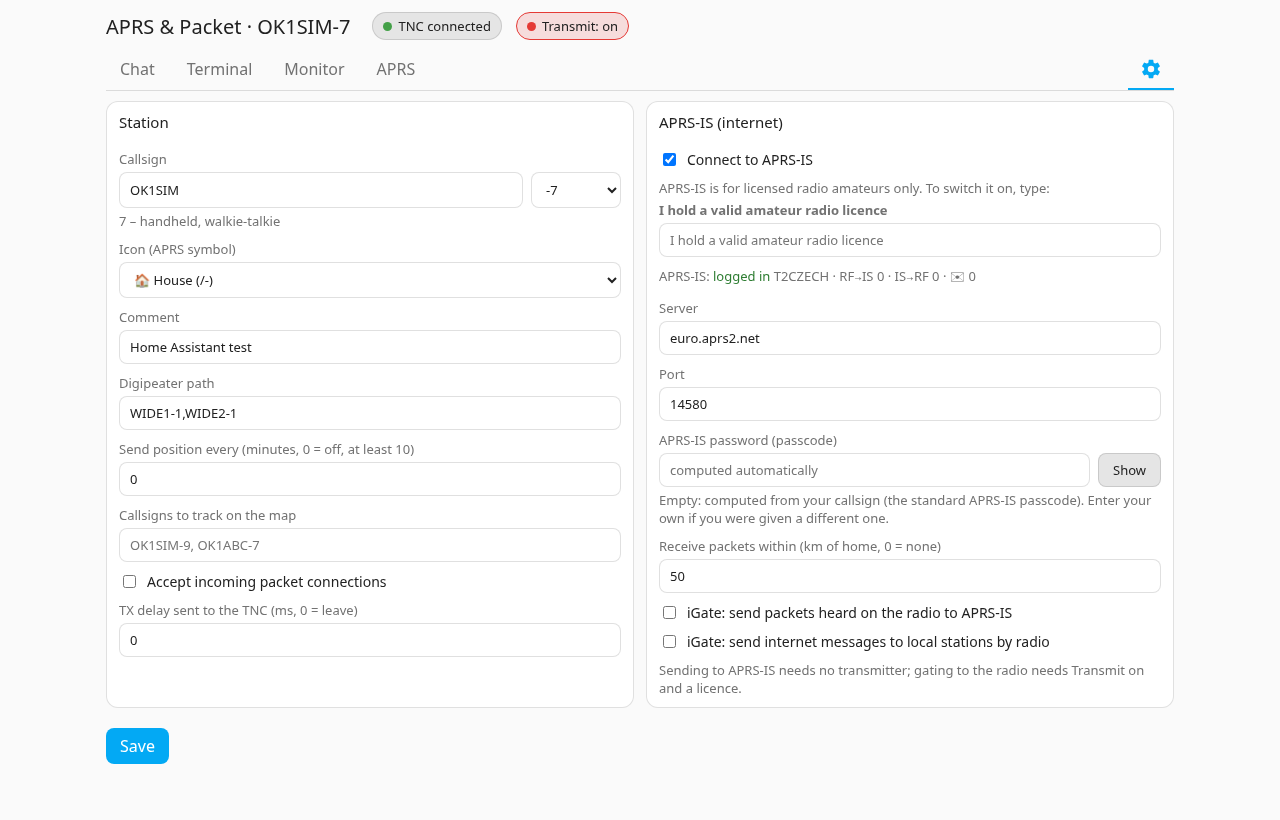
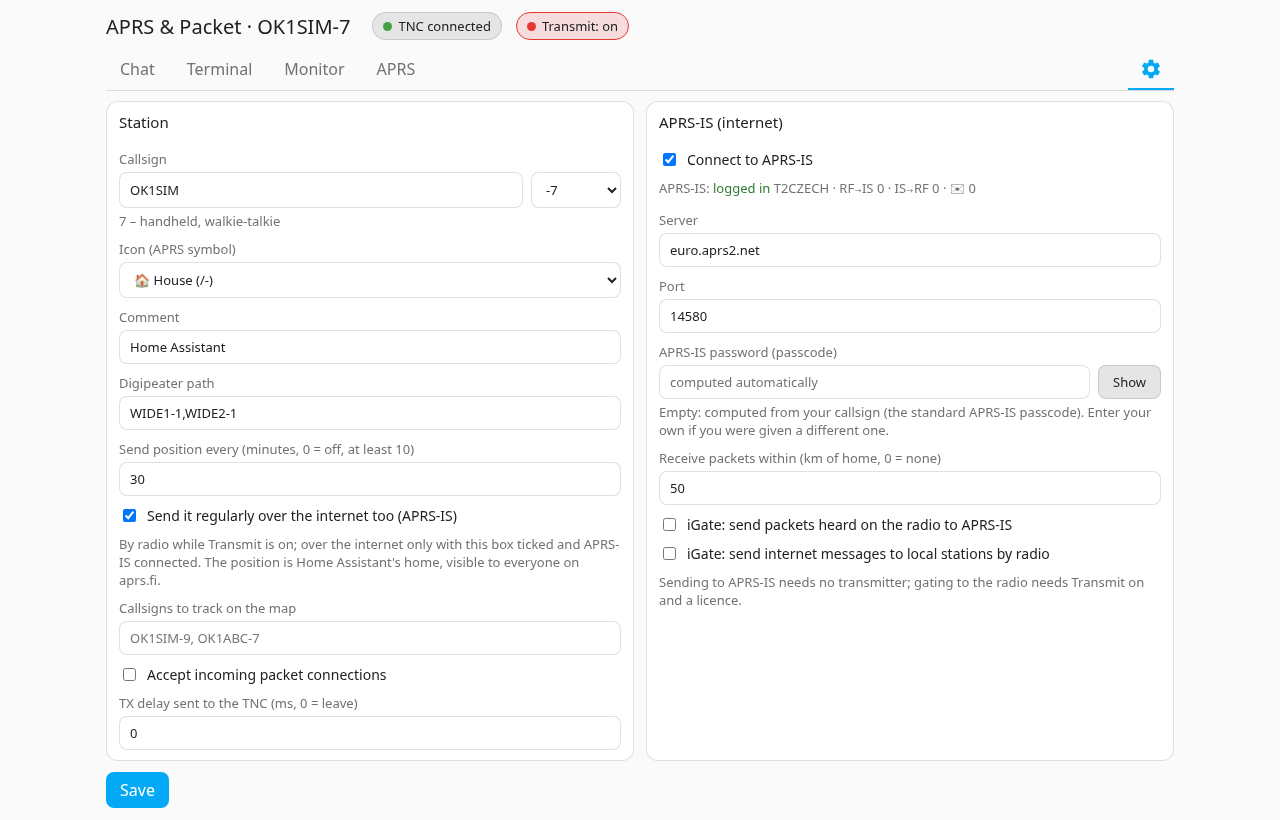
0.3.4: position over the internet as an option, licence field fix, Marketplace install with a button

Changed region(s): [[0.5, 0.2134, 0.9062, 0.8537], [0.0625, 0.6098, 0.5, 1.0]]

diff --git a/custom_components/aprs_kiss/frontend/aprs-kiss-panel.js b/custom_components/aprs_kiss/frontend/aprs-kiss-panel.js
@@ -37,7 +37,7 @@ const COG = 'M12,15.5A3.5,3.5 0 0,1 8.5,12A3.5,3.5 0 0,1 12,8.5A3.5,3.5 0 0,1 15
 
 const TEXTS = {
   en: {
-    settings: 'Settings', callsign: 'Callsign', ssid: 'SSID', symbol: 'Icon (APRS symbol)', comment: 'Position comment', path: 'Digipeater path', beacon: 'Send position every (minutes, 0 = off, at least 10)', tracked: 'Callsigns to track on the map', incoming: 'Accept incoming packet connections', txdelay: 'TX delay sent to the TNC (ms, 0 = leave)', station: 'Station', aprsis: 'APRS-IS (internet)', aprsisOn: 'Connect to APRS-IS', server: 'Server', port: 'Port', passcode: 'APRS-IS password (passcode)', licenceAsk: 'APRS-IS is for licensed radio amateurs only. To switch it on, type:', licenceText: 'I hold a valid amateur radio licence', licenceRequired: 'To switch APRS-IS on, type the sentence about your licence exactly as shown.', show: 'Show', hide: 'Hide', passHint: 'Empty: computed from your callsign (the standard APRS-IS passcode). Enter your own if you were given a different one.', passOwn: 'Your own passcode is saved. Clear the field to compute it from the callsign.', radius: 'Receive packets within (km of home, 0 = none)', igateRx: 'iGate: send packets heard on the radio to APRS-IS', igateTx: 'iGate: send internet messages to local stations by radio', unsaved: 'Changes are not saved yet: press Save.', save: 'Save', saved: 'Saved; the integration restarts with the new settings.', isState: 'APRS-IS', verified: 'logged in', unverified: 'connected, not verified (check the passcode)', disconnectedIs: 'not connected', passAuto: 'computed automatically', igateHint: 'Sending to APRS-IS needs no transmitter; gating to the radio needs Transmit on and a licence.', ssidHint: 'Usual meanings of the SSID:',
+    settings: 'Settings', callsign: 'Callsign', ssid: 'SSID', symbol: 'Icon (APRS symbol)', comment: 'Position comment', path: 'Digipeater path', beacon: 'Send position every (minutes, 0 = off, at least 10)', beaconIs: 'Send it regularly over the internet too (APRS-IS)', beaconHint: 'By radio while Transmit is on; over the internet only with this box ticked and APRS-IS connected. The position is Home Assistant\'s home, visible to everyone on aprs.fi.', tracked: 'Callsigns to track on the map', incoming: 'Accept incoming packet connections', txdelay: 'TX delay sent to the TNC (ms, 0 = leave)', station: 'Station', aprsis: 'APRS-IS (internet)', aprsisOn: 'Connect to APRS-IS', server: 'Server', port: 'Port', passcode: 'APRS-IS password (passcode)', licenceAsk: 'APRS-IS is for licensed radio amateurs only. To switch it on, type:', licenceText: 'I hold a valid amateur radio licence', licenceRequired: 'To switch APRS-IS on, type the sentence about your licence exactly as shown.', show: 'Show', hide: 'Hide', passHint: 'Empty: computed from your callsign (the standard APRS-IS passcode). Enter your own if you were given a different one.', passOwn: 'Your own passcode is saved. Clear the field to compute it from the callsign.', radius: 'Receive packets within (km of home, 0 = none)', igateRx: 'iGate: send packets heard on the radio to APRS-IS', igateTx: 'iGate: send internet messages to local stations by radio', unsaved: 'Changes are not saved yet: press Save.', save: 'Save', saved: 'Saved; the integration restarts with the new settings.', isState: 'APRS-IS', verified: 'logged in', unverified: 'connected, not verified (check the passcode)', disconnectedIs: 'not connected', passAuto: 'computed automatically', igateHint: 'Sending to APRS-IS needs no transmitter; gating to the radio needs Transmit on and a licence.', ssidHint: 'Usual meanings of the SSID:',
     newVersion: 'A new version of APRS & Packet is installed. Reload the page to use it.', reload: 'Reload page',
     chat: 'Chat', chatHint: 'Packet chat: Enter sends the text to everyone on the frequency as it is (a UI frame to CQ, direct).', chatPh: 'Write a message', chatEmpty: 'Nothing heard yet.',
     viaIs: 'only over the internet (APRS-IS)', isLegend: '🌐 = only over the internet (APRS-IS), not heard by the radio',
@@ -51,7 +51,7 @@ const TEXTS = {
     txOffHint: 'Transmitting is off. Switch it on to connect or send.', state: { pending: 'waiting for ack', acked: 'acknowledged', rejected: 'rejected', failed: 'no ack', sent: 'sent' },
   },
   cs: {
-    settings: 'Nastavení', callsign: 'Značka', ssid: 'SSID', symbol: 'Ikona (APRS symbol)', comment: 'Komentář k poloze', path: 'Cesta přes digipeatery', beacon: 'Posílat polohu každých (minut, 0 = ne, nejméně 10)', tracked: 'Značky sledované na mapě', incoming: 'Přijímat příchozí packet spojení', txdelay: 'TX delay pro TNC (ms, 0 = neměnit)', station: 'Stanice', aprsis: 'APRS-IS (internet)', aprsisOn: 'Připojit se k APRS-IS', server: 'Server', port: 'Port', passcode: 'Heslo pro APRS-IS (passcode)', licenceAsk: 'APRS-IS je jen pro radioamatéry s licencí. Pro zapnutí napiš:', licenceText: 'mám platnou radioamatérskou licenci', licenceRequired: 'Pro zapnutí APRS-IS napiš větu o licenci přesně tak, jak je uvedená.', show: 'Zobrazit', hide: 'Skrýt', passHint: 'Prázdné: spočítá se z tvé značky (standardní passcode APRS-IS). Zadej vlastní, pokud ti bylo přiděleno jiné.', passOwn: 'Je uložené tvoje vlastní heslo. Smazáním pole se bude počítat ze značky.', radius: 'Přijímat pakety do (km od domova, 0 = žádné)', igateRx: 'iGate: posílat pakety slyšené rádiem do APRS-IS', igateTx: 'iGate: zprávy z internetu pro místní stanice vysílat rádiem', unsaved: 'Změny ještě nejsou uložené: klikni na Uložit.', save: 'Uložit', saved: 'Uloženo; integrace se restartuje s novým nastavením.', isState: 'APRS-IS', verified: 'přihlášeno', unverified: 'připojeno, neověřeno (zkontroluj passcode)', disconnectedIs: 'nepřipojeno', passAuto: 'spočítá se automaticky', igateHint: 'Posílání do APRS-IS nepotřebuje vysílač; brána do rádia potřebuje zapnuté vysílání a licenci.', ssidHint: 'Obvyklé významy SSID:',
+    settings: 'Nastavení', callsign: 'Značka', ssid: 'SSID', symbol: 'Ikona (APRS symbol)', comment: 'Komentář k poloze', path: 'Cesta přes digipeatery', beacon: 'Posílat polohu každých (minut, 0 = ne, nejméně 10)', beaconIs: 'Posílat pravidelně i přes internet (APRS-IS)', beaconHint: 'Rádiem, když je zapnuté vysílání; přes internet jen se zaškrtnutím a připojeným APRS-IS. Poloha je domov z Home Assistantu, na aprs.fi ji uvidí každý.', tracked: 'Značky sledované na mapě', incoming: 'Přijímat příchozí packet spojení', txdelay: 'TX delay pro TNC (ms, 0 = neměnit)', station: 'Stanice', aprsis: 'APRS-IS (internet)', aprsisOn: 'Připojit se k APRS-IS', server: 'Server', port: 'Port', passcode: 'Heslo pro APRS-IS (passcode)', licenceAsk: 'APRS-IS je jen pro radioamatéry s licencí. Pro zapnutí napiš:', licenceText: 'mám platnou radioamatérskou licenci', licenceRequired: 'Pro zapnutí APRS-IS napiš větu o licenci přesně tak, jak je uvedená.', show: 'Zobrazit', hide: 'Skrýt', passHint: 'Prázdné: spočítá se z tvé značky (standardní passcode APRS-IS). Zadej vlastní, pokud ti bylo přiděleno jiné.', passOwn: 'Je uložené tvoje vlastní heslo. Smazáním pole se bude počítat ze značky.', radius: 'Přijímat pakety do (km od domova, 0 = žádné)', igateRx: 'iGate: posílat pakety slyšené rádiem do APRS-IS', igateTx: 'iGate: zprávy z internetu pro místní stanice vysílat rádiem', unsaved: 'Změny ještě nejsou uložené: klikni na Uložit.', save: 'Uložit', saved: 'Uloženo; integrace se restartuje s novým nastavením.', isState: 'APRS-IS', verified: 'přihlášeno', unverified: 'připojeno, neověřeno (zkontroluj passcode)', disconnectedIs: 'nepřipojeno', passAuto: 'spočítá se automaticky', igateHint: 'Posílání do APRS-IS nepotřebuje vysílač; brána do rádia potřebuje zapnuté vysílání a licenci.', ssidHint: 'Obvyklé významy SSID:',
     newVersion: 'Je nainstalovaná nová verze APRS & Packet. Načti stránku znovu, aby se použila.', reload: 'Načíst znovu',
     chat: 'Chat', chatHint: 'Packetový chat: Enter odešle text tak, jak je, všem na kmitočtu (UI rámec na CQ, přímo).', chatPh: 'Napiš zprávu', chatEmpty: 'Zatím nic nepřišlo.',
     viaIs: 'jen přes internet (APRS-IS)', isLegend: '🌐 = jen přes internet (APRS-IS), rádio ji neslyšelo',
@@ -284,7 +284,7 @@ class AprsKissPanel extends HTMLElement {
         .top { position: sticky; top: 0; z-index: 10; display: flex; flex-direction: column; gap: 10px; flex-shrink: 0;
                margin: -12px -16px 0; padding: calc(12px + env(safe-area-inset-top, 0px)) 16px 0; background: var(--primary-background-color); }
         .update { display: flex; align-items: center; gap: 12px; padding: 8px 12px; border-radius: 10px; background: var(--warning-color, #ff9800); color: #000; font-size: 14px; }
-        .update[hidden] { display: none; } .update span { flex: 1; }
+        [hidden] { display: none !important; }  /* also over display: flex of .field and others */ .update span { flex: 1; }
         .update button { padding: 6px 12px; border: none; border-radius: 6px; background: rgba(0, 0, 0, 0.8); color: #fff; font: inherit; cursor: pointer; white-space: nowrap; }
         header { display: flex; flex-wrap: wrap; align-items: center; gap: 8px 14px; }
         h1 { font-size: 20px; margin: 0 8px 0 0; font-weight: 500; }
@@ -566,6 +566,8 @@ class AprsKissPanel extends HTMLElement {
           <label class="field">${t.comment}<input class="f-comment" maxlength="43" value="${esc(st.comment || '')}"></label>
           <label class="field">${t.path}<input class="f-path" value="${esc(st.path || '')}" placeholder="WIDE1-1,WIDE2-1"></label>
           <label class="field">${t.beacon}<input class="f-beacon" type="number" min="0" max="1440" value="${st.beacon_minutes || 0}"></label>
+          <label class="field check"><input type="checkbox" class="f-beacon-is" ${st.beacon_is ? 'checked' : ''}> ${t.beaconIs}</label>
+          <div class="hint">${t.beaconHint}</div>
           <label class="field">${t.tracked}<input class="f-tracked" value="${esc(st.tracked_callsigns || '')}" placeholder="OK1SIM-9, OK1ABC-7"></label>
           <label class="field check"><input type="checkbox" class="f-incoming" ${st.accept_incoming ? 'checked' : ''}> ${t.incoming}</label>
           <label class="field">${t.txdelay}<input class="f-txdelay" type="number" min="0" max="1000" step="10" value="${st.txdelay_ms || 0}"></label>
@@ -611,7 +613,7 @@ class AprsKissPanel extends HTMLElement {
       const settings = {
         callsign: ssidVal ? `${call}-${ssidVal}` : call,
         symbol: q('.f-symbol').value, comment: q('.f-comment').value, path: q('.f-path').value.trim().toUpperCase(),
-        beacon_minutes: Number(q('.f-beacon').value) || 0, tracked_callsigns: q('.f-tracked').value.trim().toUpperCase(),
+        beacon_minutes: Number(q('.f-beacon').value) || 0, beacon_is: q('.f-beacon-is').checked, tracked_callsigns: q('.f-tracked').value.trim().toUpperCase(),
         accept_incoming: q('.f-incoming').checked, txdelay_ms: Number(q('.f-txdelay').value) || 0,
         aprsis_enabled: q('.f-is').checked, aprsis_host: q('.f-host').value.trim(), aprsis_port: Number(q('.f-port').value) || 14580,
         aprsis_passcode: q('.f-pass').value.trim(), aprsis_radius_km: Number(q('.f-radius').value) || 0,

diff --git a/custom_components/aprs_kiss/hub.py b/custom_components/aprs_kiss/hub.py
@@ -20,7 +20,7 @@ from .ax25 import Address, Frame, PF, U_DM
 from .connection import KissConnection, TncSettings
 from .const import (
     CONF_APRSIS, CONF_LICENCE, CONF_APRSIS_HOST, CONF_APRSIS_PASSCODE, CONF_APRSIS_PORT, CONF_APRSIS_RADIUS,
-    CONF_BEACON_MINUTES, CONF_IGATE_RX, CONF_IGATE_TX, DEFAULT_APRSIS_HOST, DEFAULT_APRSIS_PORT,
+    CONF_BEACON_IS, CONF_BEACON_MINUTES, CONF_IGATE_RX, CONF_IGATE_TX, DEFAULT_APRSIS_HOST, DEFAULT_APRSIS_PORT,
     DEFAULT_APRSIS_RADIUS, VERSION,
     CONF_ACCEPT_INCOMING, CONF_BAUDRATE, CONF_CALLSIGN, CONF_COMMENT, CONF_CONNECTION, CONF_DEVICE,
     CONF_HOST, CONF_PATH, CONF_PORT, CONF_SYMBOL, CONF_TXDELAY, DEFAULT_PATH, DEFAULT_PORT,
@@ -261,7 +261,9 @@ class Hub:
 
     async def _beacon(self, _now=None) -> None:
         try:
-            await self.station.send_position(self.hass.config.latitude, self.hass.config.longitude)
+            # By radio while transmitting is on; over the internet only when chosen in Settings.
+            await self.station.send_position(self.hass.config.latitude, self.hass.config.longitude,
+                                             to_is=bool(self.conf.get(CONF_BEACON_IS)))
         except (TransmitRefused, ConnectionError) as err:
             _LOGGER.debug("Beacon not sent: %s", err)
 

diff --git a/custom_components/aprs_kiss/station.py b/custom_components/aprs_kiss/station.py
@@ -304,8 +304,10 @@ class Station:
             msg.state = "failed"
         self._on_update()
 
-    async def send_position(self, lat: float, lon: float, comment: str | None = None) -> None:
-        await self.send_info(aprs.position(lat, lon, self.config.symbol, self.config.comment if comment is None else comment))
+    async def send_position(self, lat: float, lon: float, comment: str | None = None,
+                            rf: bool = True, to_is: bool = True) -> None:
+        await self.send_info(aprs.position(lat, lon, self.config.symbol, self.config.comment if comment is None else comment),
+                             rf=rf, to_is=to_is)
 
     async def send_status(self, text: str) -> None:
         await self.send_info(aprs.status(text))

diff --git a/custom_components/aprs_kiss/const.py b/custom_components/aprs_kiss/const.py
@@ -12,6 +12,7 @@ CONF_PATH = "path"
 CONF_SYMBOL = "symbol"
 CONF_COMMENT = "comment"
 CONF_BEACON_MINUTES = "beacon_minutes"
+CONF_BEACON_IS = "beacon_is"  # the regular position also goes to APRS-IS
 CONF_TRACKED = "tracked_callsigns"
 CONF_ACCEPT_INCOMING = "accept_incoming"
 CONF_TXDELAY = "txdelay_ms"
@@ -30,7 +31,7 @@ DEFAULT_SYMBOL = "/-"
 DEFAULT_APRSIS_HOST = "euro.aprs2.net"
 DEFAULT_APRSIS_PORT = 14580
 DEFAULT_APRSIS_RADIUS = 50
-VERSION = "0.3.3"
+VERSION = "0.3.4"
 
 EVENT_PACKET = f"{DOMAIN}_packet"      # every decoded APRS packet
 EVENT_MESSAGE = f"{DOMAIN}_message"    # an APRS message addressed to us

diff --git a/custom_components/aprs_kiss/__init__.py b/custom_components/aprs_kiss/__init__.py
@@ -196,7 +196,7 @@ async def ws_send_unproto(hass, connection, msg):
 
 SETTINGS_KEYS = {
     "callsign": str, "path": str, "symbol": str, "comment": str, "beacon_minutes": int,
-    "tracked_callsigns": str, "accept_incoming": bool, "txdelay_ms": int,
+    "beacon_is": bool, "tracked_callsigns": str, "accept_incoming": bool, "txdelay_ms": int,
     "aprsis_enabled": bool, "aprsis_host": str, "aprsis_port": int, "aprsis_passcode": str,
     "aprsis_radius_km": int, "igate_rx": bool, "igate_tx": bool,
 }

diff --git a/README.md b/README.md
@@ -9,6 +9,10 @@ A Home Assistant integration that turns a radio with a **KISS TNC** into an **AP
 - **APRS-IS and iGate**: connect to the APRS internet network; gate what the radio hears to the internet, and internet messages for local stations to the radio; messages to you from the internet arrive in Home Assistant too.
 - Home Assistant **entities, services and events**, so automations can react to APRS messages or send them.
 
+[![Open aprs-kiss-ha in the Home Assistant Marketplace](https://my.home-assistant.io/badges/hacs_repository.svg)](https://my.home-assistant.io/redirect/hacs_repository/?owner=michalsiman&repository=aprs-kiss-ha&category=integration)
+
+*The button adds this repository to your Home Assistant's **Marketplace** (HACS on versions before 2026.11); see [Install the integration](#4-install-the-integration).*
+
 It was built and tested for a **Quansheng UV-K1 / UV-K5 V3** running the **F4HWN** firmware with its **KISS TNC** app, connected by USB-C. Any KISS TNC works: Direwolf, a hardware TNC, a Mobilinkd, a NinoTNC, … over TCP or a serial port.
 
 > [!WARNING]
@@ -143,11 +147,19 @@ If the radio is plugged into the machine that runs Home Assistant (Home Assistan
 
 ## 4. Install the integration
 
-**With HACS / the Marketplace (recommended)**
+**From the Marketplace (recommended)**
 
-1. HACS → ⋮ → *Custom repositories* → add `https://github.com/michalsiman/aprs-kiss-ha`, type *Integration*.
-2. Install **APRS & Packet (KISS TNC)**.
-3. Restart Home Assistant.
+Home Assistant 2026.11 and newer has the community store built in as the **Marketplace** (Settings → Marketplace); older versions use HACS, which works the same way. The integration is not in the default list yet, so it is added as a *custom repository*:
+
+[![Open aprs-kiss-ha in the Home Assistant Marketplace](https://my.home-assistant.io/badges/hacs_repository.svg)](https://my.home-assistant.io/redirect/hacs_repository/?owner=michalsiman&repository=aprs-kiss-ha&category=integration)
+
+1. Click the button above. It opens your Home Assistant (through my.home-assistant.io, which asks for your Home Assistant's address the first time) with this repository ready to add; confirm with **Add**.
+   Without the button: Settings → **Marketplace**, open its menu (⋮) → **Custom repositories**, enter `https://github.com/michalsiman/aprs-kiss-ha` with the type **Integration** and add it.
+2. Open **APRS & Packet (KISS TNC)** in the Marketplace and **Download** it.
+3. Restart Home Assistant (Settings → System → ⋮ → Restart).
+4. Continue with [Set it up](#5-set-it-up).
+
+New versions are offered in the Marketplace and under Settings → Updates; after updating, restart Home Assistant. If the panel is open in a browser or the app, a banner offers to reload it.
 
 **By hand**
 
@@ -169,7 +181,7 @@ Settings → Devices & services → **Add integration** → **APRS & Packet (KIS
    - *Position comment*: sent with your position.
    - *Accept incoming packet connections*: lets other stations connect to you (only while transmitting is on).
 
-Everything can be changed later in the panel's **Settings** tab: callsign and SSID (the list shows the usual meaning of each SSID: -7 handheld, -9 car, -10 iGate, …), the **icon** from the most common APRS symbols, comment, path, a **regular position beacon**, callsigns to track on the map, incoming connections, TX delay, and **APRS-IS / iGate**. Saving restarts the integration with the new settings. (The integration's *Configure* button offers the station options too.)
+Everything can be changed later in the panel's **Settings** tab: callsign and SSID (the list shows the usual meaning of each SSID: -7 handheld, -9 car, -10 iGate, …), the **icon** from the most common APRS symbols, comment, path, a **regular position beacon** (by radio while Transmit is on, and over the internet too only when *Send it regularly over the internet too* is ticked), callsigns to track on the map, incoming connections, TX delay, and **APRS-IS / iGate**. Saving restarts the integration with the new settings. (The integration's *Configure* button offers the station options too.)
 
 A new sidebar item **APRS & Packet** opens the panel (administrators only).
 

diff --git a/CHANGELOG.md b/CHANGELOG.md
@@ -1,5 +1,12 @@
 # Changelog
 
+## [0.3.4] - 2026-11-17
+
+- Settings: the licence sentence field showed even with APRS-IS already on; it appears again only while switching APRS-IS on.
+- README: installing from the Home Assistant Marketplace, with a button that adds the repository in one click.
+- New Settings screenshots.
+- Settings: *Send it regularly over the internet too (APRS-IS)* under the position interval. The regular position goes by radio while Transmit is on, and to APRS-IS only with this box ticked (before, it always went to APRS-IS when connected). Off by default. The *Send position* button still goes both ways.
+
 ## [0.3.3] - 2026-11-16
 
 - Stations from APRS-IS: when several iGates send the same packet within a minute, the first copy is kept (later copies often carry an iGate's own additions, such as LoRa signal reports that break the weather data); packets received with bit errors no longer overwrite a station's comment, weather or position.
